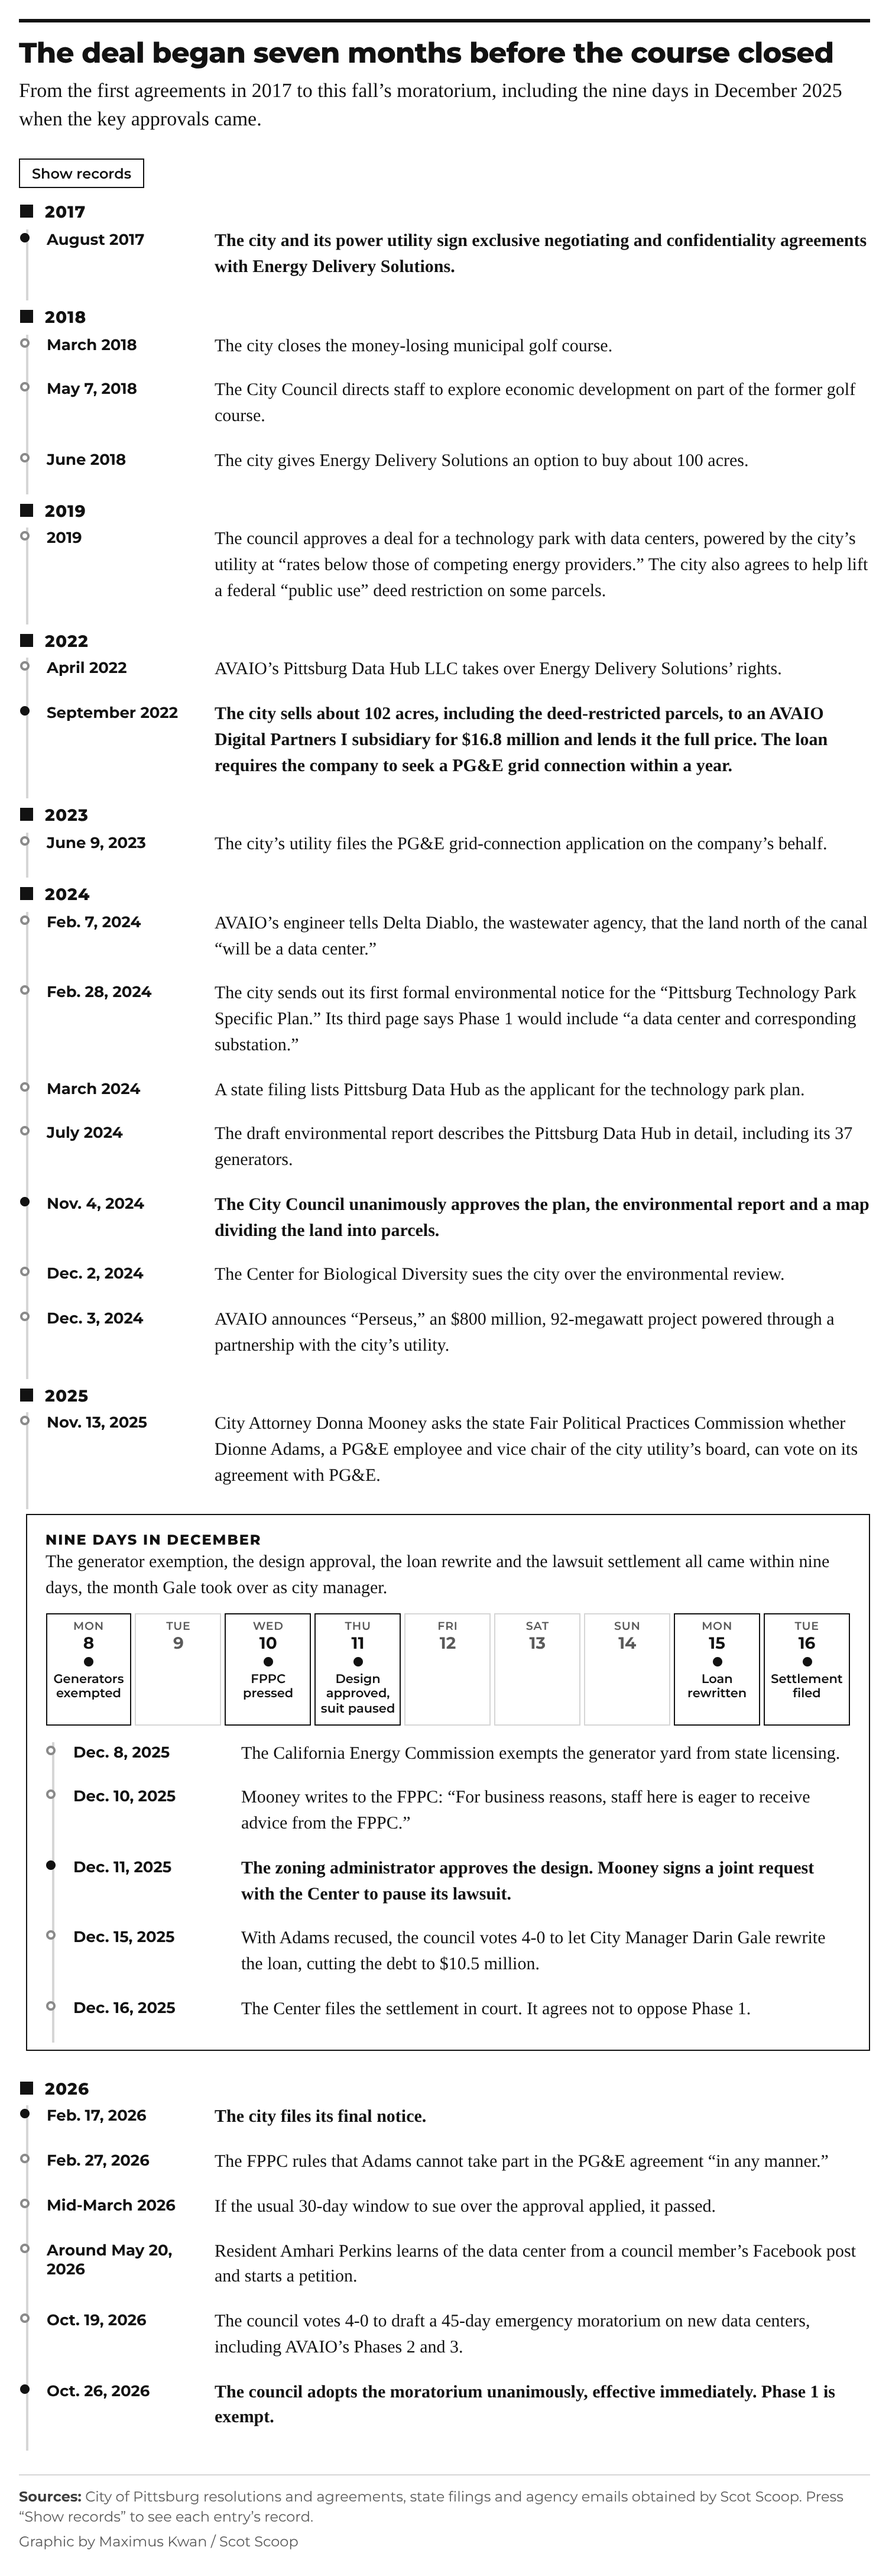
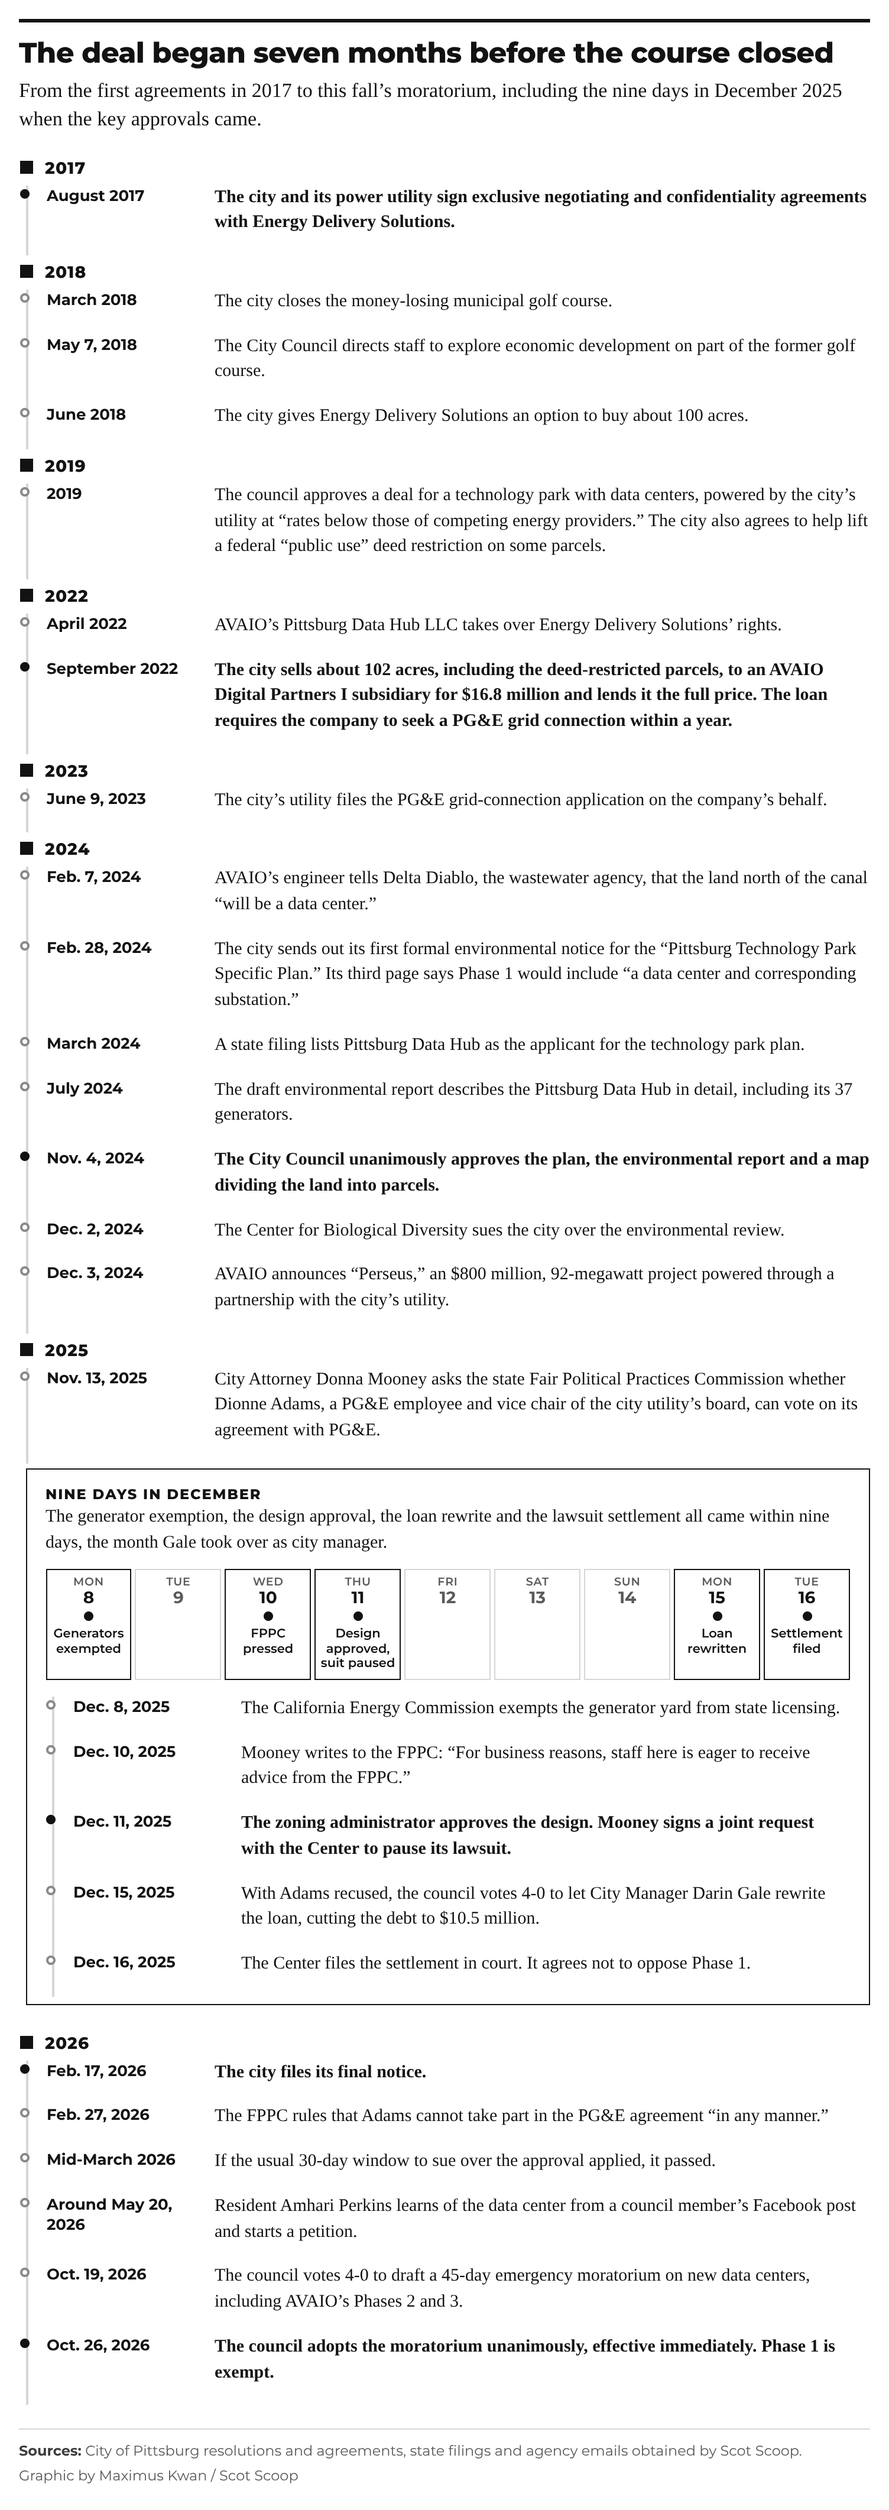
Timeline PNG: leave out the controls that only work live
A shared .ph-interactive class marks controls that only work on the
live page. tools/snapshot.mjs sets data-snapshot on the frame before
capture, and shared/graphic.css hides those controls then. The
timeline's "Show records" button and the footer sentence pointing to it
no longer appear in its PNG fallbacks; the live page is unchanged. The
other graphics' PNGs re-render identically.

Claude-Session: https://claude.ai/code/session_016Gic3g8uK4cBBHy5sjR4hD

diff --git a/graphics/deal-timeline/index.html b/graphics/deal-timeline/index.html
@@ -21,7 +21,7 @@
     <p class="ph-dek">From the first agreements in 2017 to this fall’s moratorium, including the nine days in December 2025 when the key approvals came.</p>
     <p class="ph-sr-only ph-desc" id="desc">A timeline of the deal from August 2017 to the moratorium adopted Oct. 26, 2026, with the nine days from Dec. 8 to Dec. 16, 2025, shown day by day.</p>
     <div class="ph-body"></div>
-    <figcaption class="ph-foot"><p class="ph-source"><b>Sources:</b> City of Pittsburg resolutions and agreements, state filings and agency emails obtained by Scot Scoop. Press “Show records” to see each entry’s record.</p><p class="ph-credit">Graphic by Maximus Kwan / Scot Scoop</p></figcaption>
+    <figcaption class="ph-foot"><p class="ph-source"><b>Sources:</b> City of Pittsburg resolutions and agreements, state filings and agency emails obtained by Scot Scoop.<span class="ph-interactive"> Press “Show records” to see each entry’s record.</span></p><p class="ph-credit">Graphic by Maximus Kwan / Scot Scoop</p></figcaption>
   </figure>
   <script type="module">import('../../shared/kit.js?v=' + window.PH_V).then((kit) => kit.standalone());</script>
 </body>

diff --git a/graphics/deal-timeline/graphic.js b/graphics/deal-timeline/graphic.js
@@ -68,7 +68,7 @@ export default async function draw(ctx) {
     toggle.setAttribute('aria-pressed', String(on));
     toggle.textContent = on ? 'Hide records' : 'Show records';
   });
-  ctx.$('.ph-body').replaceChildren(h('p', { class: 'tl-tools' }, toggle), list);
+  ctx.$('.ph-body').replaceChildren(h('p', { class: 'tl-tools ph-interactive' }, toggle), list);
   // A day with events jumps to its entry.
   for (const cell of ctx.$$('button.tl-day')) {
     cell.addEventListener('click', () => ctx.$(`.tl-entry[data-date="${cell.dataset.date}"]`)?.scrollIntoView({ behavior: ctx.reducedMotion ? 'auto' : 'smooth', block: 'center' }));

diff --git a/shared/graphic.css b/shared/graphic.css
@@ -49,6 +49,10 @@
   .ph-dek { font: var(--type-dek); margin-bottom: 20px; }
 }
 
+/* Controls that only work live (buttons, toggles). The PNG fallbacks leave
+   them out: tools/snapshot.mjs sets data-snapshot on the frame before capture. */
+.ph-root[data-snapshot] .ph-interactive { display: none; }
+
 /* Visually hidden, still read by screen readers. */
 .ph-sr-only {
   position: absolute !important; width: 1px; height: 1px; padding: 0; margin: -1px;

diff --git a/docs/GRAPHICS.md b/docs/GRAPHICS.md
@@ -39,6 +39,7 @@ vendor/d3, vendor/plot        D3 7.9 and Observable Plot 0.6 as single ES module
 - Every headline states the finding in one line at desktop width.
 - The footer always runs **Note:** (optional), **Source:** or **Sources:**, then "Graphic by Maximus Kwan / Scot Scoop."
 - Red has one job: the thing to look at. Blue is for water only. Inserted or quoted words get the neutral `--mark` highlight. Underlines mean links, and only links.
+- Controls that only work live (buttons, toggles) get `.ph-interactive`, so the PNG fallbacks leave them out.
 - Section labels are letterspaced caps (`.ph-label`). Boxes use `--box-border` with square corners.
 - Type comes from the named roles in `tokens.css` (`--type-hed`, `--type-dek`, `--type-body`, `--type-data`, `--type-label`, `--type-small`, `--type-source`). Serif is for prose and quoted records; sans is for labels and data.
 
